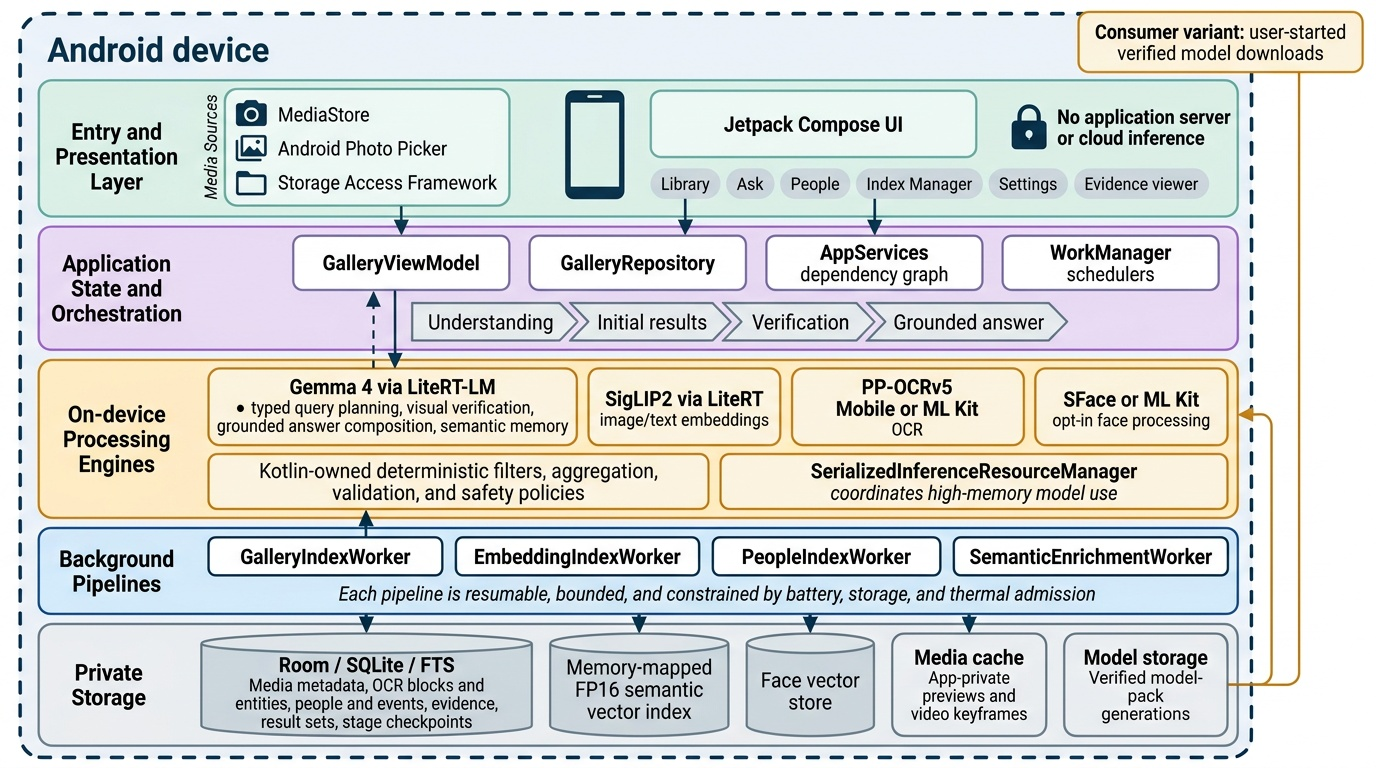
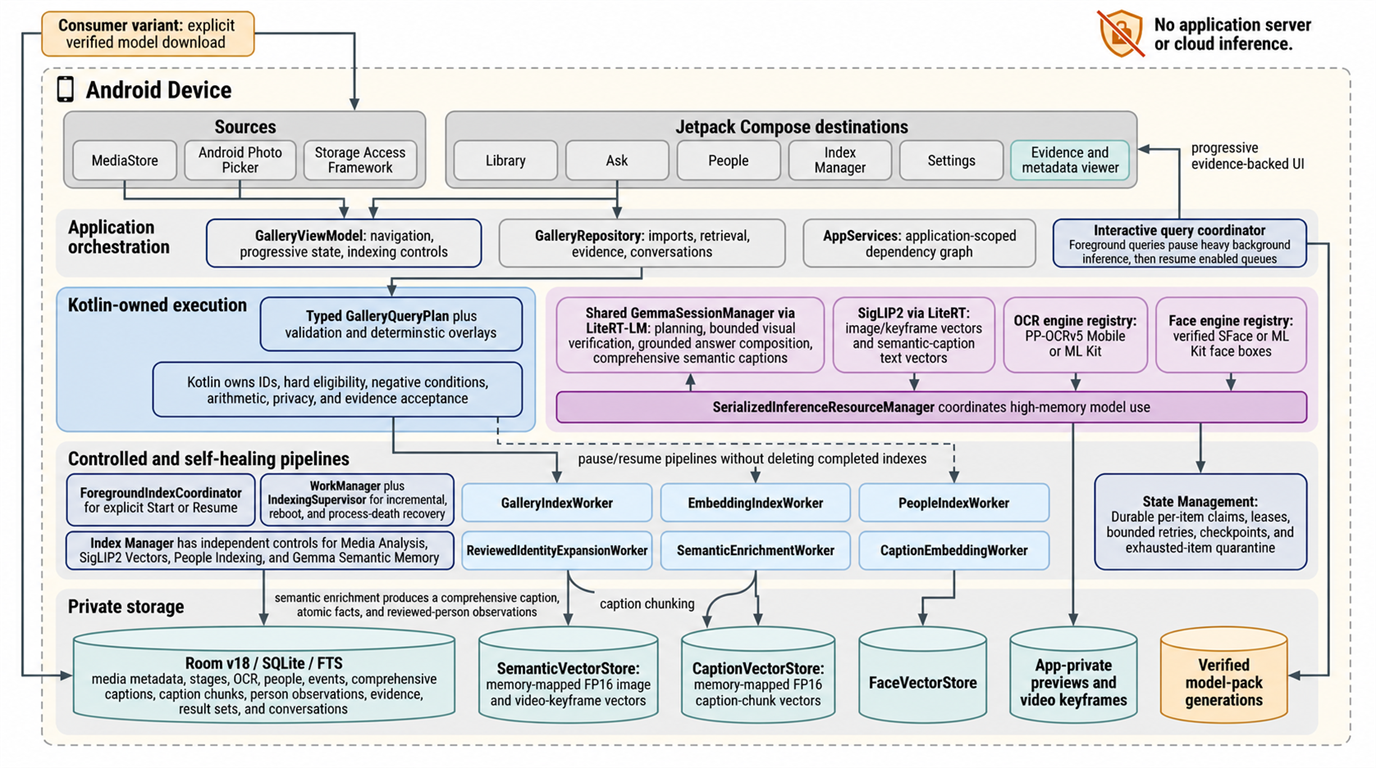
Refresh architecture documentation

diff --git a/README.md b/README.md
@@ -9,9 +9,9 @@ path.
 The simplest mental model is:
 
 1. Android grants the app access to selected media.
-2. resumable workers build private metadata, OCR, event, people, and vector
-   indexes;
-3. a typed query plan fans out across local retrieval channels;
+2. independently controlled, self-healing workers build private metadata, OCR,
+   event, people, image-vector, caption, and caption-vector indexes;
+3. a typed query plan fans out across seven local retrieval channels;
 4. Kotlin applies hard constraints, arithmetic, safety, and evidence checks;
 5. optional local Gemma planning, verification, and answer composition improve
    the experience without owning data access or execution.
@@ -31,18 +31,22 @@ progress state. `GalleryRepository` orchestrates the database, retrieval
 channels, and optional model-backed services supplied by the application-level
 `AppServices` dependency graph.
 
-Room/SQLite/FTS stores structured gallery memory and stage checkpoints.
-Semantic and face vectors live in separate app-private stores. WorkManager
-drives bounded background pipelines, while
-`SerializedInferenceResourceManager` and the shared `GemmaSessionManager`
-prevent high-memory model workloads from competing with each other.
+Room v18/SQLite/FTS stores structured gallery memory, captions, caption chunks,
+people observations, and durable per-item claims. Image/keyframe, caption, and
+face vectors live in separate app-private stores. Explicit Start/Resume runs
+through `ForegroundIndexCoordinator`; WorkManager and `IndexingSupervisor`
+provide incremental fallback and recovery. `SerializedInferenceResourceManager`
+and the shared `GemmaSessionManager` prevent high-memory model workloads from
+competing, while interactive queries temporarily pause heavy embedding and
+semantic-memory queues.
 
 ## How media becomes searchable
 
 ![Agentic Gallery indexing and semantic-memory pipeline](docs/architecture/agentic-gallery-indexing-pipeline.png)
 
-*Indexing is checkpointed, resumable, and independent of network access. Model
-dependent and privacy-sensitive branches are explicitly optional.*
+*Indexing uses short checkpointed batches, durable claims and leases, bounded
+retries, and independent controls. Model-dependent and privacy-sensitive
+branches are explicitly optional.*
 
 The indexing path is divided into coordinated stages:
 
@@ -50,28 +54,42 @@ The indexing path is divided into coordinated stages:
    MediaStore rows, Photo Picker selections, and Storage Access Framework
    documents. Discovery records and stage state are written before expensive
    analysis starts.
-2. **Base enrichment.** `GalleryIndexWorker` processes bounded batches. Images
-   use bounded thumbnail decoding, videos produce timestamped private
+2. **Base enrichment.** `GalleryIndexWorker` processes short, mixed-success
+   batches: one failed item does not discard successful siblings. Images use
+   EXIF-correct bounded thumbnail decoding, videos produce timestamped private
    keyframes, and PDFs produce private page previews. Local feature extraction,
    ML Kit labels, gated OCR, normalized OCR regions, and structured document
    facts are persisted in `GalleryDatabase`; `EventCompiler` rebuilds episodic
    events.
-3. **Semantic retrieval.** `EmbeddingIndexWorker` uses the verified SigLIP2
-   pack through LiteRT to embed images, PDF pages, and video keyframes into the
-   memory-mapped FP16 `SemanticVectorStore`.
+3. **Image and caption retrieval.** `EmbeddingIndexWorker` uses the verified
+   SigLIP2 pack through LiteRT to embed images, PDF pages, and video keyframes
+   into the memory-mapped FP16 `SemanticVectorStore`. Separately,
+   `CaptionEmbeddingWorker` encodes evidence-scoped caption chunks into the
+   memory-mapped FP16 `CaptionVectorStore`; the same chunks remain available
+   through FTS4 lexical search.
 4. **People indexing.** `PeopleIndexWorker` is disabled until explicit consent.
    A verified SFace pack enables local identity embeddings and conservative
    clustering. Users review names, aliases, merges, splits, exclusions, and
-   representatives; original media is never rewritten.
-5. **Adaptive semantic memory.** Instead of captioning every item,
-   `SemanticEnrichmentCoordinator` selects bounded representatives from events,
-   visual groups, documents, frequently retrieved media, and outliers.
-   `SemanticEnrichmentWorker` writes typed, allowlisted facts with model and
-   prompt provenance. Authentication-protected OCR is excluded.
+   representatives. `ReviewedIdentityExpansionWorker` can link only unreviewed,
+   visible, non-user-corrected candidate faces and requires strong or
+   multi-seed evidence; original media is never rewritten.
+5. **Grounded semantic memory.** `SemanticEnrichmentCoordinator` creates
+   bounded jobs for event, burst, duplicate, document, frequently retrieved,
+   outlier, and person-family contexts. One shared local Gemma vision call
+   produces a comprehensive caption, atomic semantic facts, and reviewed-person
+   observations. `SemanticCaptionChunker` persists evidence-scoped chunks with
+   media, scope, model, and prompt provenance, then schedules caption
+   embeddings. Authentication-protected OCR is excluded.
+6. **Recovery and controls.** Index Manager controls Media Analysis, SigLIP2
+   Vectors, People Indexing, and Gemma Semantic Memory independently. Each
+   claimed item records its owner, lease, next attempt, and last progress;
+   stalled work is reclaimed, three bounded failures enter
+   `FAILED_EXHAUSTED`, and completed indexes are never deleted merely to resume
+   a queue.
 
 Battery, storage, thermal, charging, and idle admission rules keep background
-work bounded. Interrupted work returns to a resumable state instead of
-requiring the gallery to be reset.
+work bounded. `beginInteractiveQuery` makes active embedding and semantic
+workers yield; `endInteractiveQuery` re-enqueues enabled unfinished queues.
 
 ## How a question becomes an answer
 
@@ -84,28 +102,42 @@ was unavailable, failed, or was not required.*
 The Ask flow is deliberately split between model suggestions and app-owned
 execution:
 
-1. `LiteRtLmQueryPlanner` uses an active verified Gemma pack for one constrained
-   planning call and at most one repair call. If Gemma is unavailable,
-   `QueryCompiler` provides a deterministic fallback.
-2. `GalleryQueryPlanValidator` accepts only the bounded typed
-   `GalleryQueryPlan` contract. Contextual follow-ups use an app-created
-   `PlanPatch`; the model never provides result-set IDs or media IDs.
-3. Kotlin resolves reviewed people and applies media, time, album, place,
-   merchant, OCR, people, follow-up, negative, and hard eligibility rules.
-4. Lexical FTS, semantic vectors, compiled events, reviewed identities, and
-   structured OCR execute as local retrieval channels. `HybridRankFusion`,
-   duplicate collapse, and event diversity produce the initial ranking.
-5. Fine-grained, relational, comparative, or negative requests can invoke
+1. Two alternative planners feed the same deterministic overlay:
+   `LiteRtLmQueryPlanner` uses an active verified Gemma pack for one constrained
+   call and at most one repair, while `QueryCompiler` is the no-model fallback.
+2. `DeterministicPlanOverlay` and `GalleryQueryPlanValidator` accept only the
+   bounded typed `GalleryQueryPlan` contract. Contextual follow-ups use an
+   app-created `PlanPatch` over a persisted result set; the model never provides
+   result-set IDs or media IDs.
+3. Kotlin applies media, time, album, place, merchant, OCR, people, follow-up,
+   negative, and hard eligibility rules before retrieval. For people queries,
+   `ReviewedPersonMatchSelector` treats duplicate reviewed clusters for one
+   identity as OR alternatives while keeping different identities as AND
+   requirements; `PeopleQueryGate` fails closed when identity search is
+   unavailable.
+4. Seven local channels execute in parallel: lexical FTS, SigLIP2 image
+   semantic, caption lexical, caption embedding, compiled event, reviewed
+   people, and structured OCR. Each reports success, partial, unavailable,
+   failed, or not required.
+5. `HybridRankFusion`, duplicate collapse, and event diversity produce the
+   initial ranking. Direct caption evidence retains its evidence media. Visual
+   group and event expansion is lower-confidence context, never proof about an
+   individual image or an exact count; person-caption chunks cannot bypass
+   people hard eligibility.
+6. Fine-grained, relational, comparative, or negative requests can invoke
    bounded `LiteRtGemmaVisualVerifier` evaluation over candidate images or
-   matched private video keyframes. Kotlin still computes final hard-condition
-   acceptance.
-6. Counts, lists, sums, min/max, comparisons, timelines, and document facts are
+   matched private video keyframes. Person verification uses EXIF-correct
+   P-labelled full images, full-height corridors, and upper-body crops. The
+   typed verdict is `VERIFIED_TRUE`, `VERIFIED_FALSE`, `AMBIGUOUS`, or
+   `NOT_VISIBLE`; Kotlin still computes final hard-condition acceptance.
+7. Counts, lists, sums, min/max, comparisons, timelines, and document facts are
    computed deterministically. Optional `LiteRtGemmaGroundedAnswerComposer`
    receives bounded evidence, and `GroundedClaimValidator` rejects unsupported
    claims or unknown evidence IDs.
-7. The final `SearchOutcome` records hits, exactness, warnings, evidence,
+8. The final `SearchOutcome` records hits, exactness, warnings, evidence,
    channel coverage, timing, and conversation state. The UI exposes the same
-   provenance through **Why this answer?**
+   provenance through **Why this answer?**, then resumes enabled background
+   queues.
 
 Model output cannot express SQL, filesystem paths, content URIs, authorization
 rules, or arbitrary execution.
@@ -124,11 +156,17 @@ model download—not inference. Runtime media analysis remains on device.*
 - People indexing is off by default. Identity queries require a verified face
   embedding engine and a user-reviewed cluster; hidden and unreviewed clusters
   never resolve as identities.
+- Reviewed identity expansion excludes reviewed, hidden, and user-corrected
+  candidates and requires strong or multi-seed support. Ambiguous
+  person-to-body associations cannot become confirmed appearance facts.
 - Sensitive OCR evidence is classified and requires biometric or
   device-credential authentication. Protected OCR is not sent to background
   semantic enrichment.
-- Cached semantic facts are typed, allowlisted, and provenance-tagged. Secret
-  values are rejected.
+- Comprehensive captions, caption chunks, semantic facts, and person
+  observations are typed, sensitive-screened, evidence-scoped, and
+  provenance-tagged. Group or event context never becomes per-image proof.
+- Exact caption evidence exposes its source media, model, and prompt versions;
+  raw image, caption, and face vectors are never exposed to answer composition.
 - Removing a label, hiding a cluster, or purging the people index does not
   modify MediaStore originals.
 - Memory-pressure and idle eviction release the shared Gemma engine without
@@ -143,11 +181,14 @@ model download—not inference. Runtime media analysis remains on device.*
 | Dependency graph | [`AgenticGalleryApplication.kt`](android/app/src/main/java/com/samsung/agenticgallery/AgenticGalleryApplication.kt) | Application-scoped database, model managers, engines, vector stores, and shared sessions |
 | Search orchestration | [`GalleryRepository.kt`](android/app/src/main/java/com/samsung/agenticgallery/GalleryRepository.kt) | Scope resolution, parallel retrieval, fusion, verification, answers, evidence, and result-set persistence |
 | Contracts and plans | [`GalleryModels.kt`](android/app/src/main/java/com/samsung/agenticgallery/GalleryModels.kt) | Typed query, filter, evidence, channel-report, result, and indexing contracts |
-| Structured storage | [`GalleryDatabase.kt`](android/app/src/main/java/com/samsung/agenticgallery/GalleryDatabase.kt) and [`GalleryRoomDatabase.kt`](android/app/src/main/java/com/samsung/agenticgallery/GalleryRoomDatabase.kt) | Room/SQLite/FTS data, migrations, checkpoints, people, events, OCR, semantic facts, and conversations |
+| Structured storage | [`GalleryDatabase.kt`](android/app/src/main/java/com/samsung/agenticgallery/GalleryDatabase.kt) and [`GalleryRoomDatabase.kt`](android/app/src/main/java/com/samsung/agenticgallery/GalleryRoomDatabase.kt) | Room v18/SQLite/FTS data, migrations, durable claims, captions, chunks, people observations, events, OCR, facts, and conversations |
 | Base indexing | [`GalleryIndexWorker.kt`](android/app/src/main/java/com/samsung/agenticgallery/GalleryIndexWorker.kt) | Resumable media analysis batches and event rebuild scheduling |
 | Semantic vectors | [`EmbeddingIndexWorker.kt`](android/app/src/main/java/com/samsung/agenticgallery/EmbeddingIndexWorker.kt) | SigLIP2 media/keyframe embedding and vector-store reconciliation |
+| Caption retrieval | [`SemanticCaptionModels.kt`](android/app/src/main/java/com/samsung/agenticgallery/SemanticCaptionModels.kt), [`CaptionEmbeddingWorker.kt`](android/app/src/main/java/com/samsung/agenticgallery/CaptionEmbeddingWorker.kt), and [`CaptionVectorStore.kt`](android/app/src/main/java/com/samsung/agenticgallery/CaptionVectorStore.kt) | Evidence-scoped caption chunks, FTS4 text, SigLIP2 text embeddings, and memory-mapped FP16 caption-vector search |
 | People index | [`PeopleIndexWorker.kt`](android/app/src/main/java/com/samsung/agenticgallery/PeopleIndexWorker.kt) | Opt-in face detection, embeddings, conservative clustering, and checkpoints |
-| Semantic memory | [`SemanticEnrichmentWorker.kt`](android/app/src/main/java/com/samsung/agenticgallery/SemanticEnrichmentWorker.kt) | Bounded representative enrichment with protected-OCR exclusion |
+| Reviewed identities | [`ReviewedPersonMatchSelector.kt`](android/app/src/main/java/com/samsung/agenticgallery/ReviewedPersonMatchSelector.kt) and [`ReviewedIdentityExpansionWorker.kt`](android/app/src/main/java/com/samsung/agenticgallery/ReviewedIdentityExpansionWorker.kt) | Same-identity OR matching, different-identity AND matching, and conservative unreviewed-face expansion |
+| Semantic memory | [`SemanticEnrichmentWorker.kt`](android/app/src/main/java/com/samsung/agenticgallery/SemanticEnrichmentWorker.kt) | Comprehensive grounded captions, atomic facts, reviewed-person observations, provenance, and protected-OCR exclusion |
+| Index controls and recovery | [`ForegroundIndexCoordinator.kt`](android/app/src/main/java/com/samsung/agenticgallery/ForegroundIndexCoordinator.kt), [`IndexingJobControls.kt`](android/app/src/main/java/com/samsung/agenticgallery/IndexingJobControls.kt), [`IndexingReliabilityPolicy.kt`](android/app/src/main/java/com/samsung/agenticgallery/IndexingReliabilityPolicy.kt), and [`IndexingRuntimeStatus.kt`](android/app/src/main/java/com/samsung/agenticgallery/IndexingRuntimeStatus.kt) | Independent Start/Resume controls, foreground execution, durable claims and leases, bounded retries, recovery, and runtime progress |
 | Shared Gemma runtime | [`GemmaSessionManager.kt`](android/app/src/main/java/com/samsung/agenticgallery/GemmaSessionManager.kt) | Serialized LiteRT-LM GPU/CPU initialization, reuse, cancellation, and eviction |
 | Model boundaries | [`ModelPackManager.kt`](android/app/src/main/java/com/samsung/agenticgallery/ModelPackManager.kt), [`RetrievalModelPack.kt`](android/app/src/main/java/com/samsung/agenticgallery/RetrievalModelPack.kt), [`OcrModelPack.kt`](android/app/src/main/java/com/samsung/agenticgallery/OcrModelPack.kt), and [`FaceModelPack.kt`](android/app/src/main/java/com/samsung/agenticgallery/FaceModelPack.kt) | Verified download/import, app-private generations, activation, capability reporting, and rollback |
 
